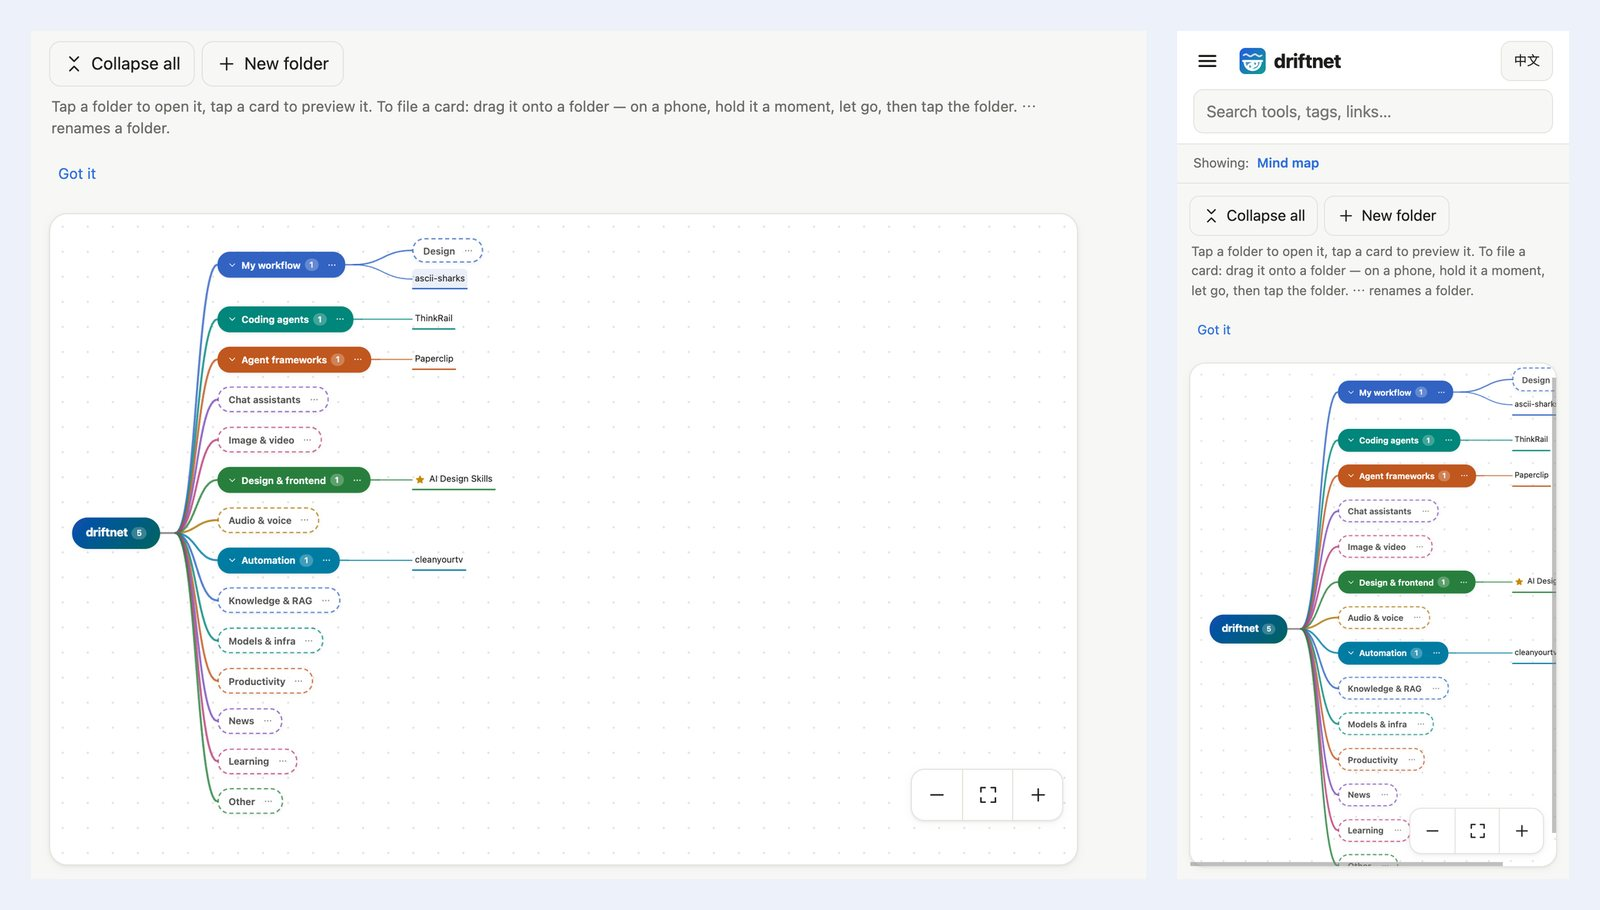
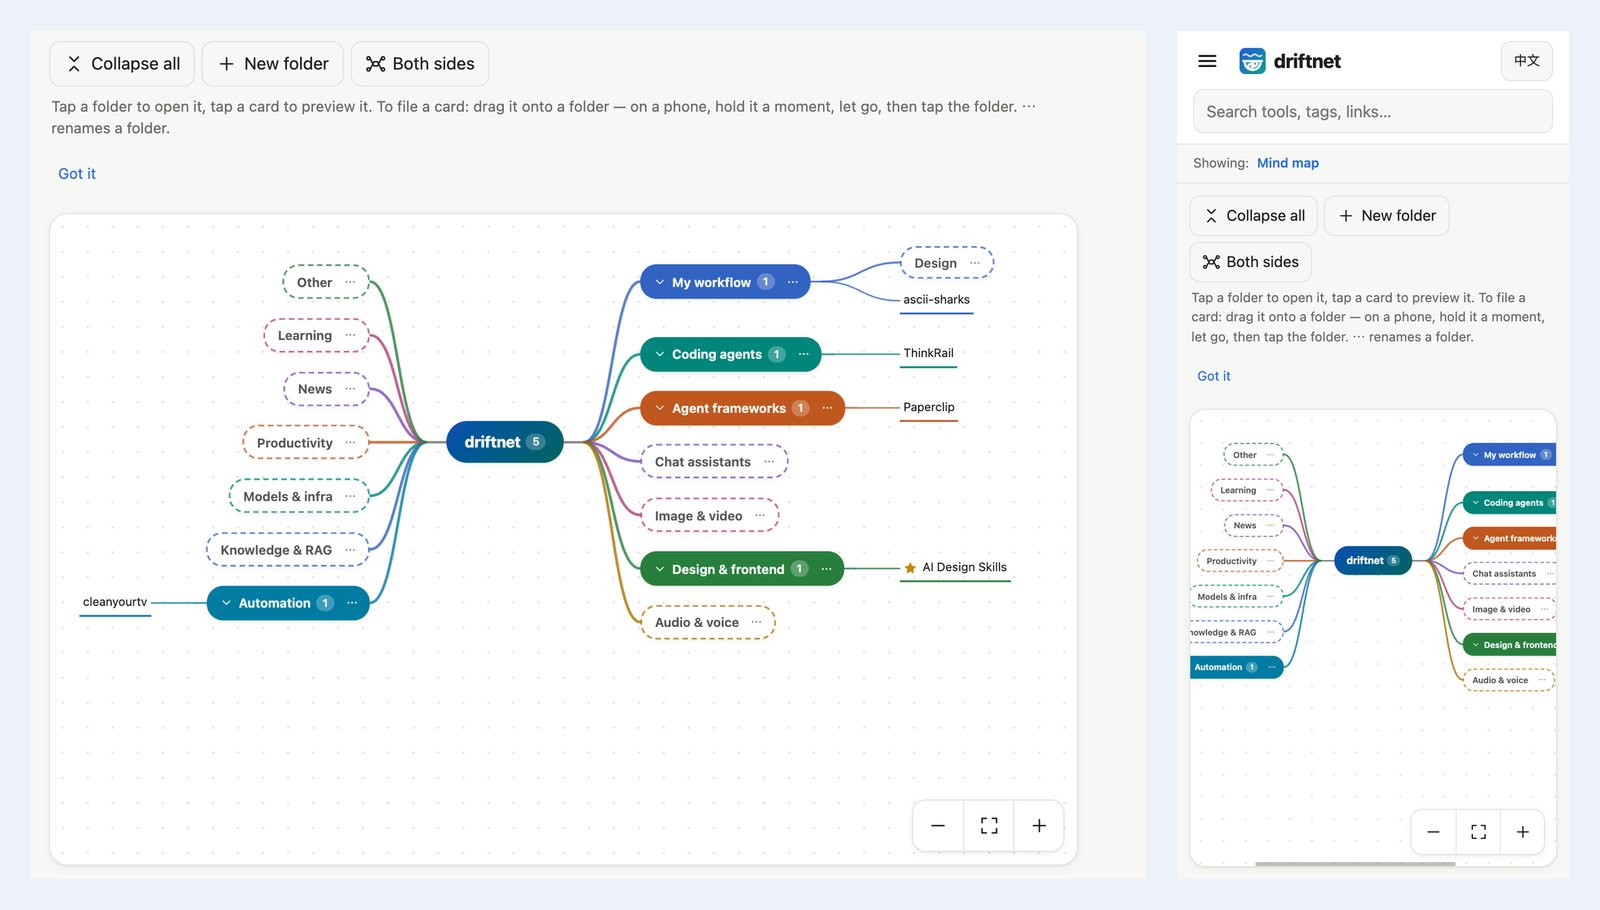
[ADD] mind map: branches on both sides of the root (XMind), with a toggle
- Default layout splits the top-level folders between the right (top to
  bottom) and the left (last branch at the top) by height, each side
  centred on the root; left-side nodes are right-aligned and connect from
  the root's left edge. "Right side" keeps the old one-sided layout; the
  choice is remembered per browser.
- The map opens centred on the root (both axes); the zoom pill is pinned
  to the frame's corner; a wide map can no longer widen the page on phones.
- e2e: both sides by default, switch and back; README text and image.

Claude-Session: https://claude.ai/code/session_01DiqM31RotdT7g4WSGPaMtt

diff --git a/apps/server/public/index.html b/apps/server/public/index.html
@@ -174,7 +174,10 @@
   .map-canvas > svg { position: absolute; left: 0; top: 0; overflow: visible; pointer-events: none; }
   .map-canvas > svg path { fill: none; stroke-linecap: round; opacity: .8; }
   .map-canvas.searching > svg path:not(.hit) { opacity: .25; }
-  .map-zoom { position: sticky; float: right; bottom: 12px; right: 12px; margin: -60px 12px 12px 0; display: flex; background: var(--panel);
+  /* The zoom pill sits on the frame's corner, not on the (scrolling) map. */
+  .map-shell { position: relative; min-width: 0; width: 100%; }   /* never wider than the page, however wide the map */
+  main { min-width: 0; }
+  .map-zoom { position: absolute; bottom: 12px; right: 12px; display: flex; background: var(--panel);
               border: 1px solid var(--line); border-radius: 12px; box-shadow: var(--shadow); overflow: hidden; z-index: 2; }
   .map-zoom button { width: 44px; height: 44px; border: 0; background: none; color: var(--text); cursor: pointer; display: grid; place-items: center; }
   .map-zoom button + button { border-left: 1px solid var(--line); }
@@ -203,6 +206,7 @@
   .mnode .cnt { font-size: 12px; color: var(--c); font-weight: 600; background: color-mix(in srgb, var(--c) 18%, var(--panel)); border-radius: 99px; padding: 0 7px; }
   .mnode .tw { display: inline-flex; color: var(--c); transition: transform .15s ease; }
   .mnode .tw.open { transform: rotate(90deg); }
+  .mnode.left .tw:not(.open) { transform: rotate(180deg); }
   .mnode .opt { display: inline-flex; color: var(--muted); margin-right: -8px; padding: 6px; border-radius: 50%; }
   .mnode .opt:hover { background: rgba(0,0,0,.1); }
   .map-canvas.searching .mnode:not(.hit):not(.root):not(.l1) { opacity: .35; }
@@ -420,6 +424,7 @@
     <symbol id="i-expand" viewBox="0 0 24 24"><path d="M7 15l5 5 5-5M7 9l5-5 5 5"/></symbol>
     <symbol id="i-collapse" viewBox="0 0 24 24"><path d="M7 20l5-5 5 5M7 4l5 5 5-5"/></symbol>
     <symbol id="i-dots" viewBox="0 0 24 24"><g fill="currentColor" stroke="none"><circle cx="5.5" cy="12" r="1.6"/><circle cx="12" cy="12" r="1.6"/><circle cx="18.5" cy="12" r="1.6"/></g></symbol>
+    <symbol id="i-both" viewBox="0 0 24 24"><rect x="9" y="9.5" width="6" height="5" rx="1.5"/><circle cx="3.5" cy="5.5" r="1.8"/><circle cx="3.5" cy="18.5" r="1.8"/><circle cx="20.5" cy="5.5" r="1.8"/><circle cx="20.5" cy="18.5" r="1.8"/><path d="M9 11.5C7 11.5 6.5 6 5.3 5.6M9 12.5C7 12.5 6.5 18 5.3 18.4M15 11.5c2 0 2.5-5.5 3.7-5.9M15 12.5c2 0 2.5 5.5 3.7 5.9"/></symbol>
     <symbol id="i-chev" viewBox="0 0 24 24"><path d="M9 6l6 6-6 6"/></symbol>
     <symbol id="i-link" viewBox="0 0 24 24"><path d="M14 4h6v6M20 4l-9 9M18 14v4.5a1.5 1.5 0 0 1-1.5 1.5h-11A1.5 1.5 0 0 1 4 18.5v-11A1.5 1.5 0 0 1 5.5 6H10"/></symbol>
     <symbol id="i-list" viewBox="0 0 24 24"><path d="M9 6h11M9 12h11M9 18h11M4.5 6h.01M4.5 12h.01M4.5 18h.01"/></symbol>
@@ -545,7 +550,8 @@
       map: "Mind map", mapHint: "Tap a folder to open it, tap a card to preview it. To file a card: drag it onto a folder — on a phone, hold it a moment, let go, then tap the folder. ⋯ renames a folder.",
       a11yFolder: (n, c) => `Folder ${n}, ${c} cards`, a11yCard: (n) => `Card ${n}`,
       expandAll: "Expand all", collapseAll: "Collapse all", zoomIn: "Zoom in", zoomOut: "Zoom out", fit: "Fit", openCard: "Open card",
-      gotIt: "Got it", more: (n) => `+${n} more`, mapSearch: (q) => `Highlighting “${q}”`, openLink: "Open link", showInList: "Show in the list", close: "Close",
+      layoutBoth: "Both sides", layoutRight: "Right side", layoutHelp: "Switch between branches on both sides (XMind) and all to the right",
+      zoom: "Zoom", gotIt: "Got it", more: (n) => `+${n} more`, mapSearch: (q) => `Highlighting “${q}”`, openLink: "Open link", showInList: "Show in the list", close: "Close",
       needPassword: "Changing things needs the admin password.",
       notes: "Notes", note: "Note", addNote: "Add a note", editNote: "Edit note", noteFor: (n) => `Note on “${n}”`,
       noteHelp: "Only for you: what you thought, whether you tried it…", newNote: "New note", noteTitle: "Title",
@@ -635,7 +641,8 @@
       map: "樹狀圖", mapHint: "點資料夾展開，點卡片預覽。整理卡片：把它拖到資料夾上；手機上按住卡片一下、放開，再點要放進去的資料夾。按 ⋯ 可以改資料夾名稱。",
       a11yFolder: (n, c) => `資料夾 ${n}，${c} 張卡片`, a11yCard: (n) => `卡片 ${n}`,
       expandAll: "全部展開", collapseAll: "全部收合", zoomIn: "放大", zoomOut: "縮小", fit: "符合畫面", openCard: "開啟卡片",
-      gotIt: "知道了", more: (n) => `還有 ${n} 張`, mapSearch: (q) => `標亮「${q}」`, openLink: "開啟連結", showInList: "在清單中查看", close: "關閉",
+      layoutBoth: "兩側展開", layoutRight: "往右展開", layoutHelp: "切換：分支分佈在兩側（XMind 預設）或全部往右",
+      zoom: "縮放", gotIt: "知道了", more: (n) => `還有 ${n} 張`, mapSearch: (q) => `標亮「${q}」`, openLink: "開啟連結", showInList: "在清單中查看", close: "關閉",
       needPassword: "要修改需要管理密碼。",
       notes: "筆記", note: "筆記", addNote: "加筆記", editNote: "改筆記", noteFor: (n) => `「${n}」的筆記`,
       noteHelp: "只有你看得到：心得、試用結果、要注意的地方…", newNote: "新筆記", noteTitle: "標題",
@@ -1353,6 +1360,8 @@
   const mapOpen = new Set((() => { try { return JSON.parse(store.get("driftnet-map-open") ?? "[]"); } catch { return []; } })());
   const saveMapOpen = () => store.set("driftnet-map-open", JSON.stringify([...mapOpen]));
   let mapZoom = Number(store.get("driftnet-map-zoom")) || 1;
+  /** both: branches on both sides of the root (XMind's default); right: all to the right. */
+  let mapLayout = store.get("driftnet-map-layout") || "both";
   let mapItems = [];
   /** Cards shown per folder before the rest fold into a "+N" node. */
   const MAP_CAP = 15;
@@ -1370,10 +1379,11 @@
     $("list").innerHTML = `<div class="map-bar">
         <button class="btn" type="button" data-map="${allOpen ? "collapse" : "expand"}">${ic(allOpen ? "collapse" : "expand")} ${esc(allOpen ? t.collapseAll : t.expandAll)}</button>
         <button class="btn" type="button" data-map="new">${ic("plus")} ${esc(t.newFolder)}</button>
+        <button class="btn" type="button" data-map="layout" aria-pressed="${mapLayout === "both"}" title="${esc(t.layoutHelp)}">${ic(mapLayout === "both" ? "both" : "map")} ${esc(mapLayout === "both" ? t.layoutBoth : t.layoutRight)}</button>
         ${state.q ? `<span class="hint">${esc(t.mapSearch(state.q))}</span>` : ""}</div>
       ${tip}
-      <div class="map-wrap" id="map-wrap"><div class="map-canvas" id="map-canvas"></div>
-        <div class="map-zoom" role="group" aria-label="Zoom">
+      <div class="map-shell"><div class="map-wrap" id="map-wrap"><div class="map-canvas" id="map-canvas"></div></div>
+        <div class="map-zoom" role="group" aria-label="${esc(t.zoom)}">
           <button type="button" data-map="out" aria-label="${esc(t.zoomOut)}">${ic("minus")}</button>
           <button type="button" data-map="fit" aria-label="${esc(t.fit)}">${ic("fit")}</button>
           <button type="button" data-map="in" aria-label="${esc(t.zoomIn)}">${ic("plus")}</button></div></div>`;
@@ -1396,7 +1406,7 @@
     const wrap = $("map-wrap"), root = $("map-canvas")?.querySelector('.mnode[data-key="root"]');
     if (!wrap || !root) return;
     wrap.scrollTop = root.offsetTop * mapZoom - wrap.clientHeight / 2;
-    wrap.scrollLeft = 0;
+    wrap.scrollLeft = (root.offsetLeft + root.offsetWidth / 2) * mapZoom - wrap.clientWidth / 2;
   }
   function fitWidth() {
     const wrap = $("map-wrap"), c = $("map-canvas");
@@ -1465,39 +1475,79 @@
         data-key="${esc(n.key)}" style="--c:${n.color}">${tw}${star}<span class="t">${esc(n.label)}</span>${cnt}${more}</div>`;
     }).join("");
     const el = new Map([...canvas.querySelectorAll(".mnode")].map((d) => [d.dataset.key, d]));
-    const colW = [];
-    for (const n of flat) { n.w = el.get(n.key).offsetWidth; n.h = el.get(n.key).offsetHeight; colW[n.depth] = Math.max(colW[n.depth] ?? 0, n.w); }
-    const colX = [32];
-    for (let d = 1; d < colW.length; d++) colX[d] = colX[d - 1] + colW[d - 1] + (d === 1 ? 84 : 60);
+    for (const n of flat) { n.w = el.get(n.key).offsetWidth; n.h = el.get(n.key).offsetHeight; }
 
-    // Pass 2: leaves take a row each; a parent sits in the middle of its children; branches get air between them.
-    let row = 0;
-    const ROW = 42;
-    const place = (n) => {
-      if (!n.children.length) { n.cy = 32 + row++ * ROW + ROW / 2; return; }
-      n.children.forEach((c, k) => { if (n.type === "root" && k > 0) row += 0.4; place(c); });
-      n.cy = (n.children[0].cy + n.children[n.children.length - 1].cy) / 2;
+    // Which side each top-level branch grows to. "both" (XMind's default): the first half by height goes right,
+    // top to bottom; the rest goes left with the last branch at the top. "right": everything to the right.
+    const leaves = (n) => (n.children.length ? n.children.reduce((a, c) => a + leaves(c), 0) : 1);
+    let right = root.children, left = [];
+    if (mapLayout === "both" && root.children.length > 1) {
+      const total = leaves(root);
+      right = []; let acc = 0;
+      for (const c of root.children) { if (!right.length || acc + leaves(c) / 2 <= total / 2) { right.push(c); acc += leaves(c); } else left.push(c); }
+      if (!left.length) left.push(right.pop());
+      left.reverse();
+    }
+    const mark = (n, side) => { n.side = side; n.children.forEach((c) => mark(c, side)); };
+    right.forEach((c) => mark(c, 1));
+    left.forEach((c) => mark(c, -1));
+    root.side = 0;
+
+    // Columns per side: the widest node at each depth, plus a gap (wider next to the root).
+    const GAP = (d) => (d === 1 ? 84 : 60);
+    const colW = { 1: [], "-1": [] };
+    for (const n of flat) if (n.side) colW[n.side][n.depth] = Math.max(colW[n.side][n.depth] ?? 0, n.w);
+    const span = (side) => colW[side].reduce((a, w, d) => a + (w ?? 0) + GAP(d), 0);
+    const rootX = 32 + span(-1);
+    root.x = rootX;
+    const edge = (side, d) => {   // right side: a column's left edge; left side: its right edge
+      let off = GAP(1);
+      for (let k = 1; k < d; k++) off += (colW[side][k] ?? 0) + GAP(k + 1);
+      return side === 1 ? rootX + root.w + off : rootX - off;
     };
-    place(root);
+
+    // Rows: leaves take a row each, a parent sits in the middle of its children, branches get air between them.
+    const ROW = 42;
+    const rowsOf = (list) => {
+      let row = 0;
+      const place = (n) => {
+        if (!n.children.length) { n.row = row++; return; }
+        n.children.forEach(place);
+        n.row = (n.children[0].row + n.children[n.children.length - 1].row) / 2;
+      };
+      list.forEach((c, k) => { if (k > 0) row += 0.4; place(c); });
+      return row;
+    };
+    const rowsR = rowsOf(right), rowsL = rowsOf(left), rows = Math.max(rowsR, rowsL, 1);
+    root.cy = 32 + (rows * ROW) / 2;
+    // Each side is centred on the root.
+    const top = { 1: root.cy - (rowsR * ROW) / 2, "-1": root.cy - (rowsL * ROW) / 2 };
     for (const n of flat) {
-      n.x = colX[n.depth];
+      if (n.side) {
+        n.cy = top[n.side] + n.row * ROW + ROW / 2;
+        n.x = n.side === 1 ? edge(1, n.depth) : edge(-1, n.depth) - n.w;
+      }
       const d = el.get(n.key);
       d.style.left = `${n.x}px`;
       d.style.top = `${n.cy - n.h / 2}px`;
+      d.classList.toggle("left", n.side === -1);
     }
     const width = Math.max(...flat.map((n) => n.x + n.w)) + 48;
-    const height = 32 + row * ROW + 32;
+    const height = 32 + rows * ROW + 32;
     const paths = [];
-    // Each parent gets a short trunk, then curves fan out from its end.
+    // A short trunk out of the parent (on the side its children grow), then curves fan out from its end.
     const link = (p) => {
-      if (!p.children.length) return;
-      const x0 = p.x + p.w, trunk = x0 + (p.type === "root" ? 22 : 12);
-      paths.push(`<path d="M${x0} ${p.cy} H${trunk}" style="stroke:${p.type === "root" ? "var(--muted)" : p.color}" stroke-width="${p.type === "root" ? 2.6 : 2}"/>`);
-      for (const c of p.children) {
-        const x2 = c.x, k = Math.min(48, (x2 - trunk) / 2);
-        const sw = c.depth === 1 ? 3 : c.type === "folder" ? 2.2 : 1.6;
-        paths.push(`<path d="M${trunk} ${p.cy} C${trunk + k} ${p.cy}, ${x2 - k} ${c.cy}, ${x2} ${c.cy}" style="stroke:${c.color}" stroke-width="${sw}" class="${c.hit ? "hit" : ""}"/>`);
-        link(c);
+      for (const side of [1, -1]) {
+        const kids = p.children.filter((c) => c.side === side);
+        if (!kids.length) continue;
+        const x0 = side === 1 ? p.x + p.w : p.x, trunk = x0 + side * (p.type === "root" ? 22 : 12);
+        paths.push(`<path d="M${x0} ${p.cy} H${trunk}" style="stroke:${p.type === "root" ? "var(--muted)" : p.color}" stroke-width="${p.type === "root" ? 2.6 : 2}"/>`);
+        for (const c of kids) {
+          const x2 = side === 1 ? c.x : c.x + c.w, k = Math.min(48, Math.abs(x2 - trunk) / 2) * side;
+          const sw = c.depth === 1 ? 3 : c.type === "folder" ? 2.2 : 1.6;
+          paths.push(`<path d="M${trunk} ${p.cy} C${trunk + k} ${p.cy}, ${x2 - k} ${c.cy}, ${x2} ${c.cy}" style="stroke:${c.color}" stroke-width="${sw}" class="${c.hit ? "hit" : ""}"/>`);
+          link(c);
+        }
       }
     };
     link(root);
@@ -1549,6 +1599,7 @@
     if (a === "expand") { folders.forEach((f) => mapOpen.add(f.id)); saveMapOpen(); renderMap().then(() => { if (isDrawer()) fitMap(); }); }
     else if (a === "collapse") { mapOpen.clear(); saveMapOpen(); renderMap(); }
     else if (a === "new") openFolderDialog(null, null);
+    else if (a === "layout") { mapLayout = mapLayout === "both" ? "right" : "both"; store.set("driftnet-map-layout", mapLayout); renderMap(); }
     else if (a === "tip") { store.set("driftnet-map-tip", "1"); b.closest(".map-tip").remove(); sizeMap(); }
     else if (a === "in") mapZoomTo(mapZoom + 0.1);
     else if (a === "out") mapZoomTo(mapZoom - 0.1);

diff --git a/README.zh-TW.md b/README.zh-TW.md
@@ -113,7 +113,7 @@ curl -X POST localhost:8787/api/chat -H 'content-type: application/json' \
 - **資料夾就是分類。**在側邊欄用 ＋ 和 ⋯ 新增、巢狀、改名、寫說明；AI 會照資料夾的路徑和說明分新連結，
   例如「遊戲 › 楓之谷 — Artale 小工具」就會收到楓之谷的工具。卡片可以按 📁 **移動到…**，電腦上也能拖著 ⠿ 丟到資料夾；
   自己放好的卡片不會再被 AI 搬走。刪掉資料夾時，裡面的連結會移到上一層。
-- **樹狀圖。**資料夾像 XMind 一樣從中心往右展開，每條分支一個顏色。點資料夾展開，點卡片預覽；把卡片拖到資料夾上就完成整理
+- **樹狀圖。**資料夾像 XMind 一樣從中心往兩側展開，每條分支一個顏色（按一下可以切成全部往右）。點資料夾展開，點卡片預覽；把卡片拖到資料夾上就完成整理
   （手機上先按住一下再拖，所以快速滑動還是在移動畫面）。資料夾拖到另一個資料夾底下就變子資料夾。搜尋會標亮符合的節點，
   卡片太多的資料夾會收成「還有 N 張」。
 - **往右滑**加入最愛，**往左滑**移到垃圾桶；滑太短不會觸發，上下捲動也不會被當成滑動。電腦上可以按 ☆ 和 🗑，或用滑鼠拖曳。

diff --git a/README.md b/README.md
@@ -122,7 +122,8 @@ phone the sidebar folds into a ☰ drawer, and a line under the search box says 
   the AI files new links by each folder's path and description, so “Games › MapleStory — Artale
   helpers” gets the MapleStory tools. Move a card with 📁 **Move to…**, or drag it by ⠿ onto a folder
   on a computer; a card you placed stays put. Deleting a folder moves its links up one level.
-- **Mind map.** Folders branch out from the root like XMind, a colour per branch. Tap a folder to open
+- **Mind map.** Folders branch out on both sides of the root like XMind, a colour per branch (one tap
+  switches to everything on the right). Tap a folder to open
   it, tap a card to preview it, and drag a card onto a folder to file it (on a phone, hold it a moment
   first, so a quick swipe still pans). Drag a folder onto another to nest it. Search highlights the
   matches; big folders fold into “+N”.
